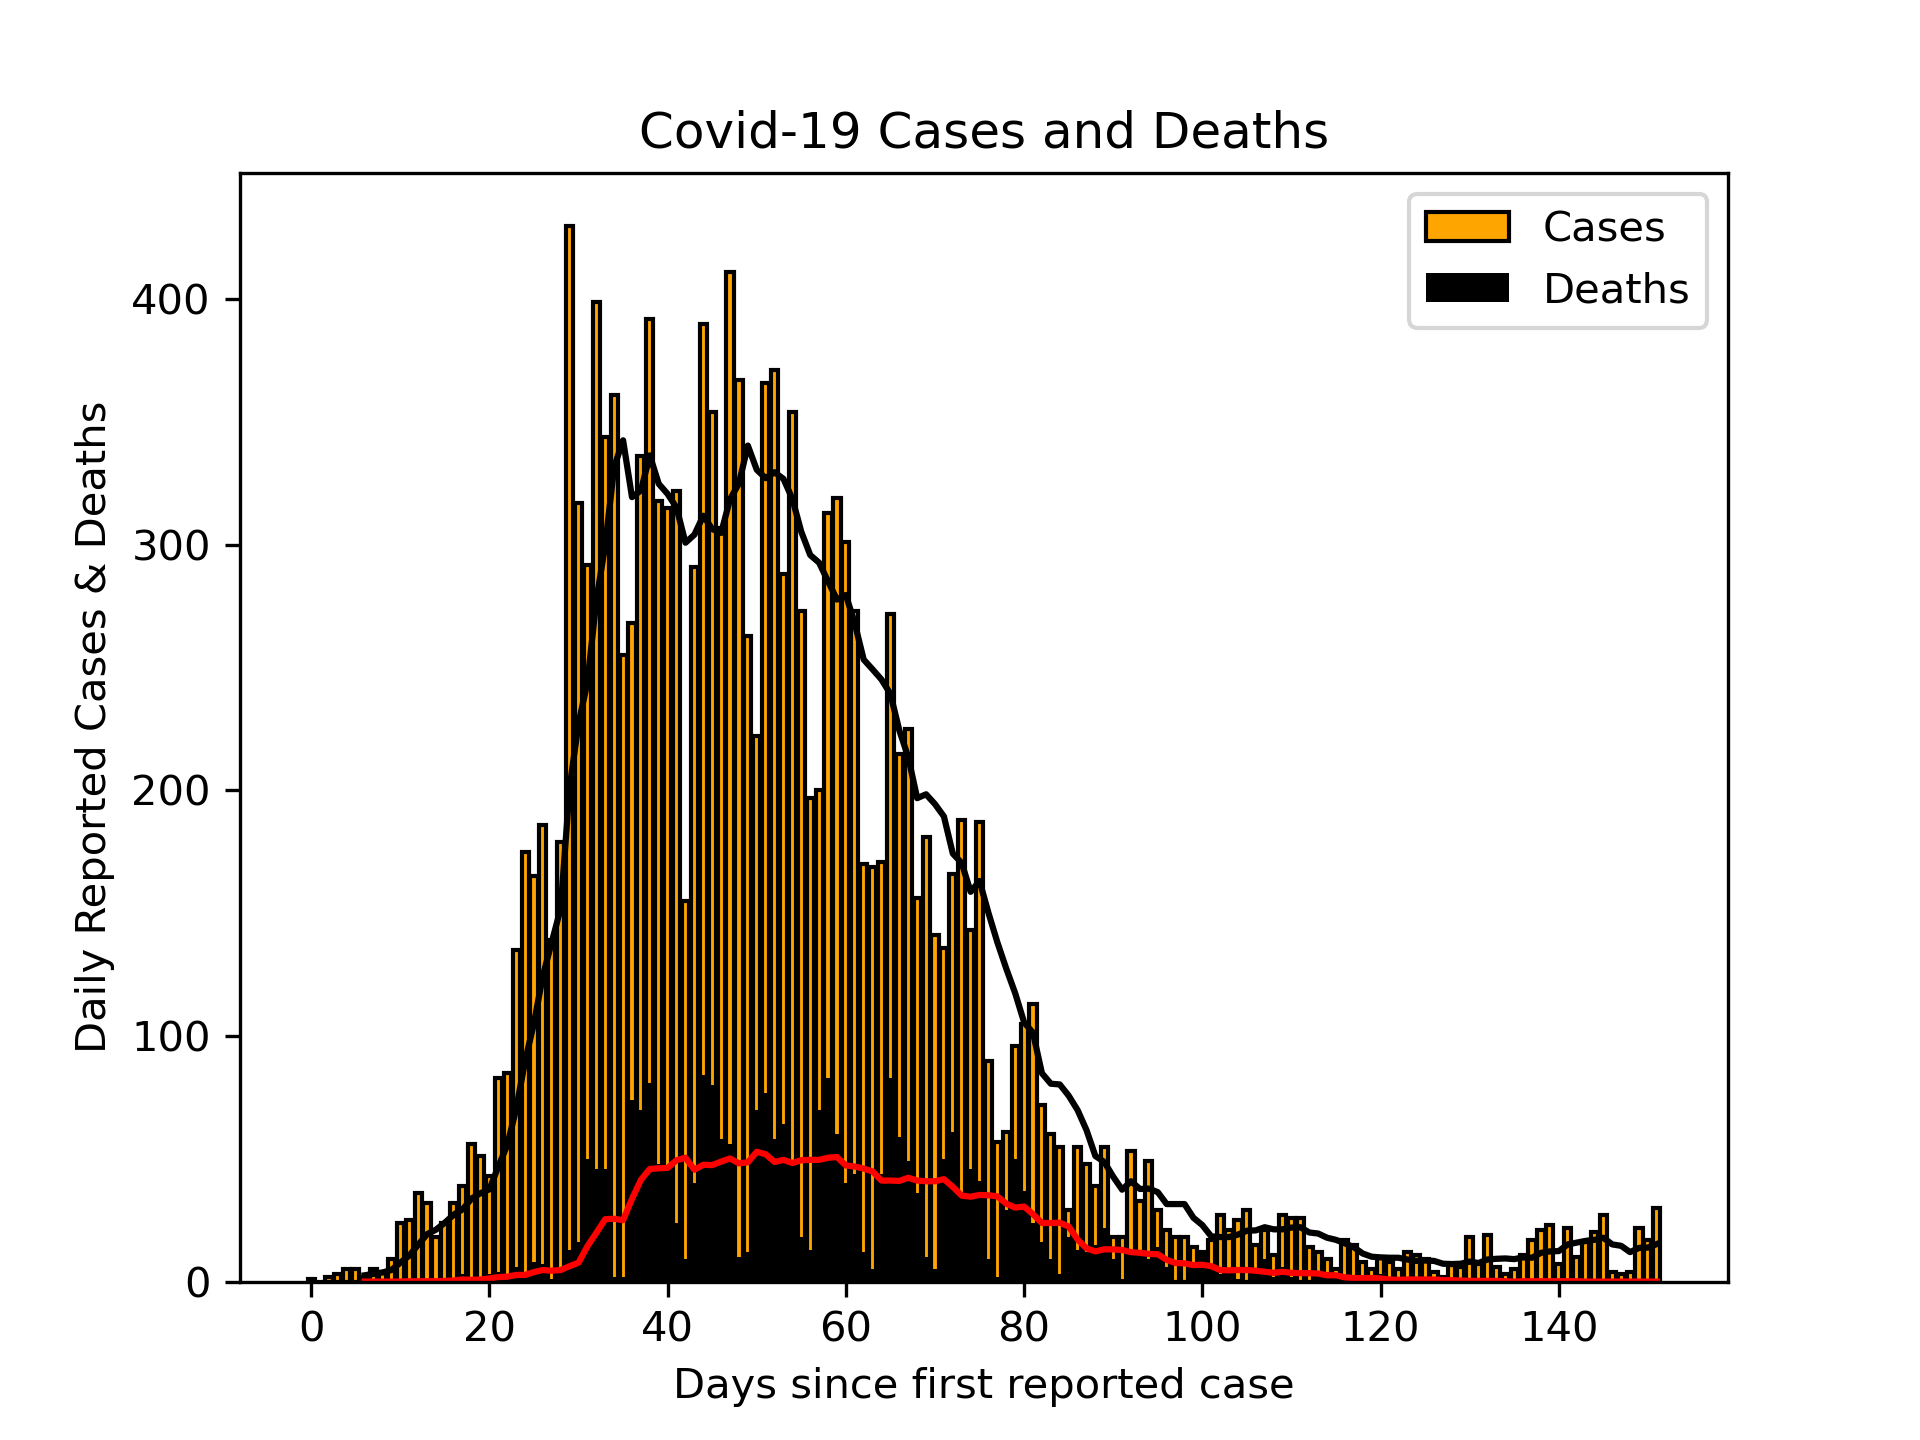
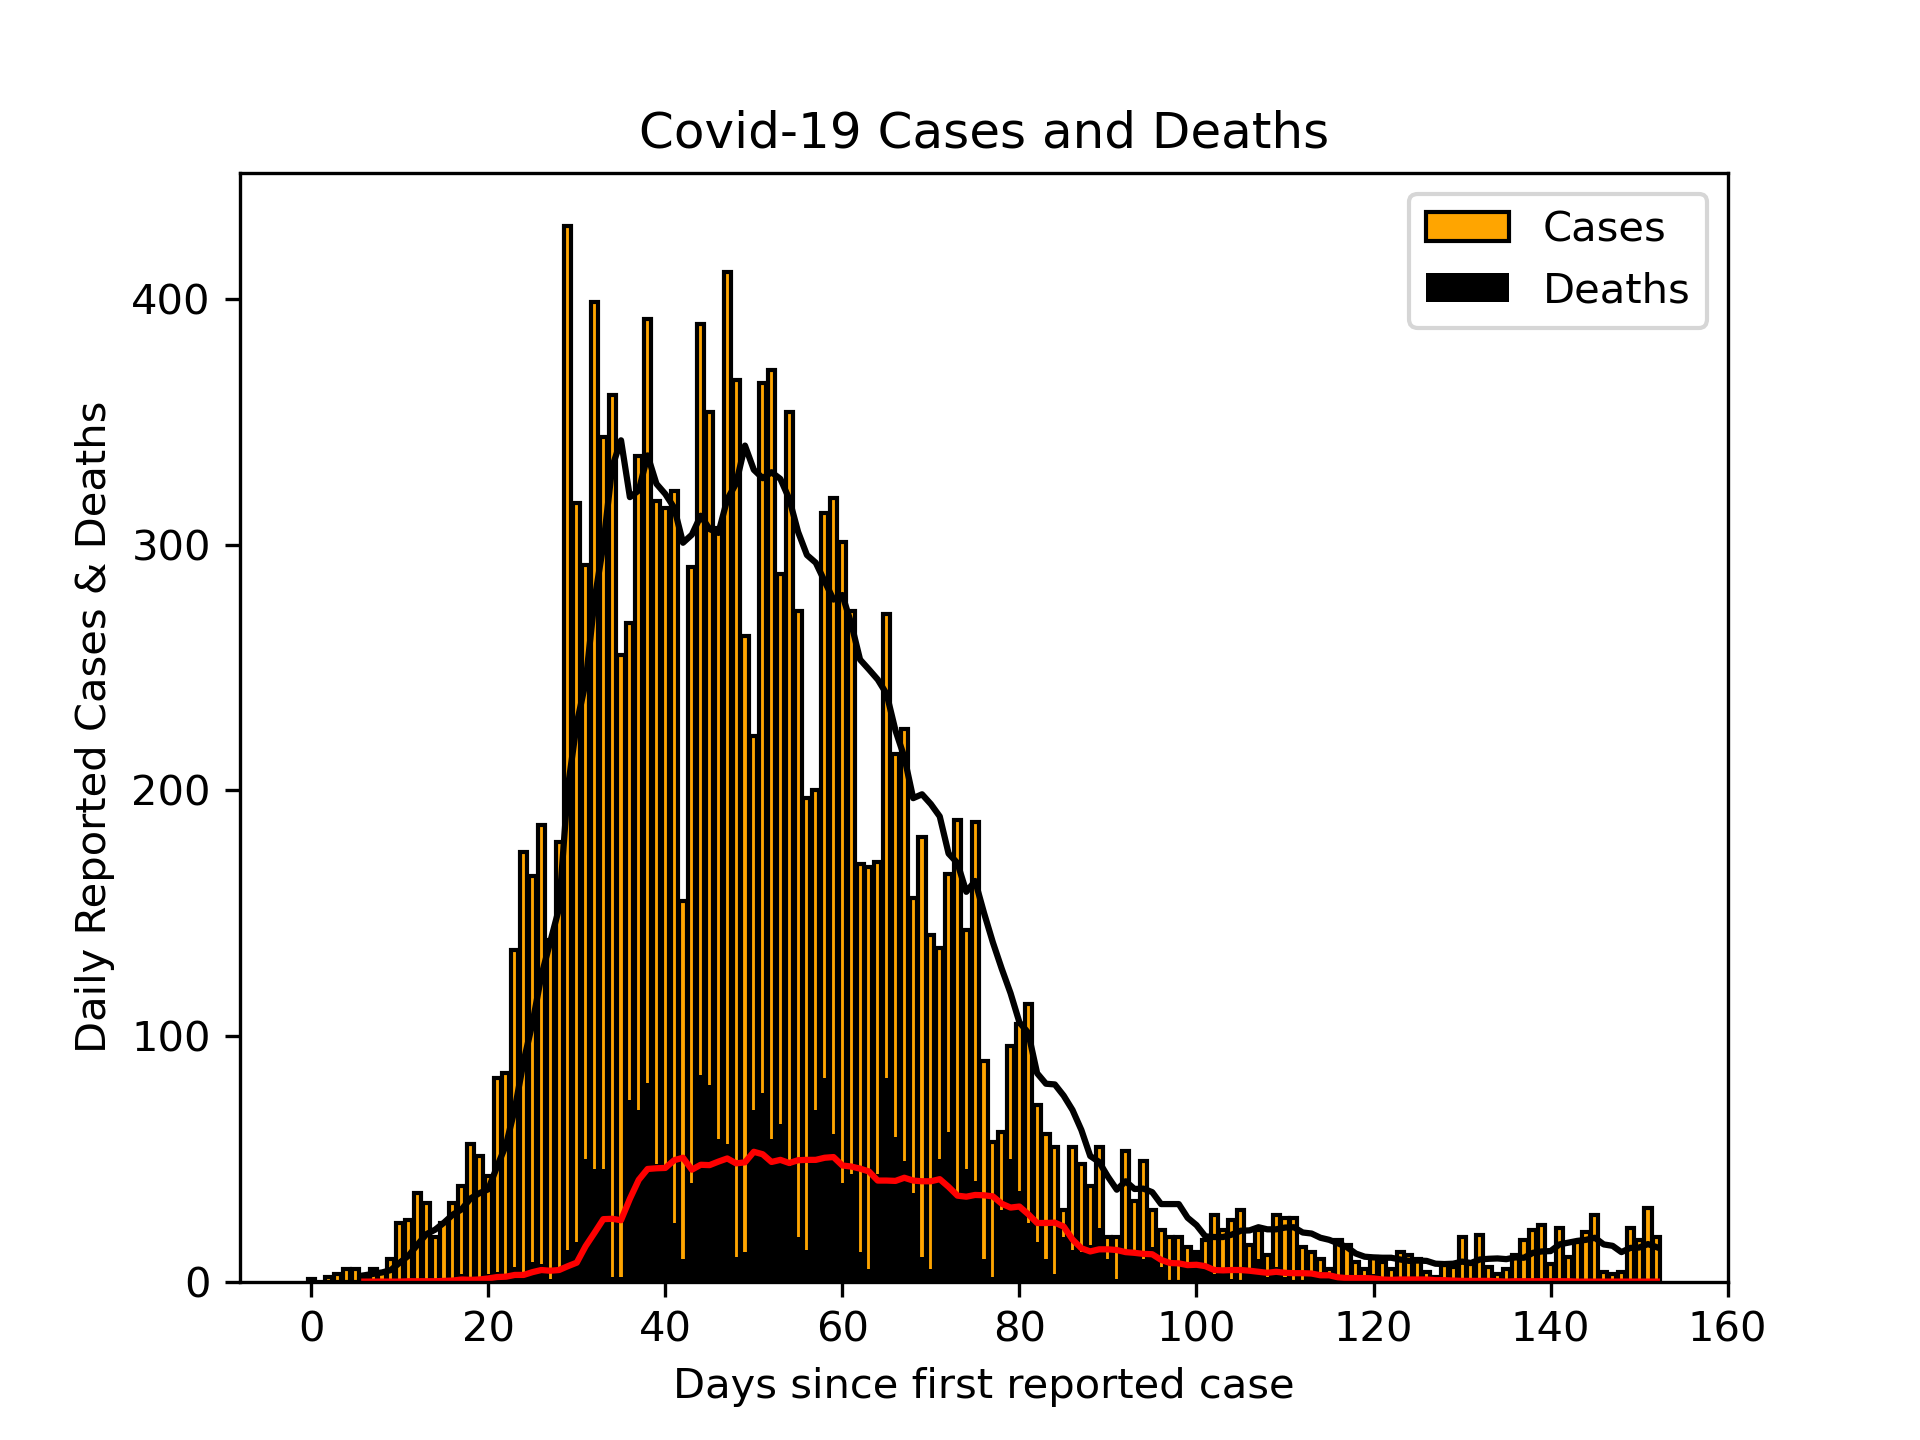
Updated Scottish cases 01/08/20

diff --git a/README.md b/README.md
@@ -1,3 +1,3 @@
-# Scottish Cases 31/07/20
+# Scottish Cases 01/08/20
 ![alt](scottish_cases.png)
 
